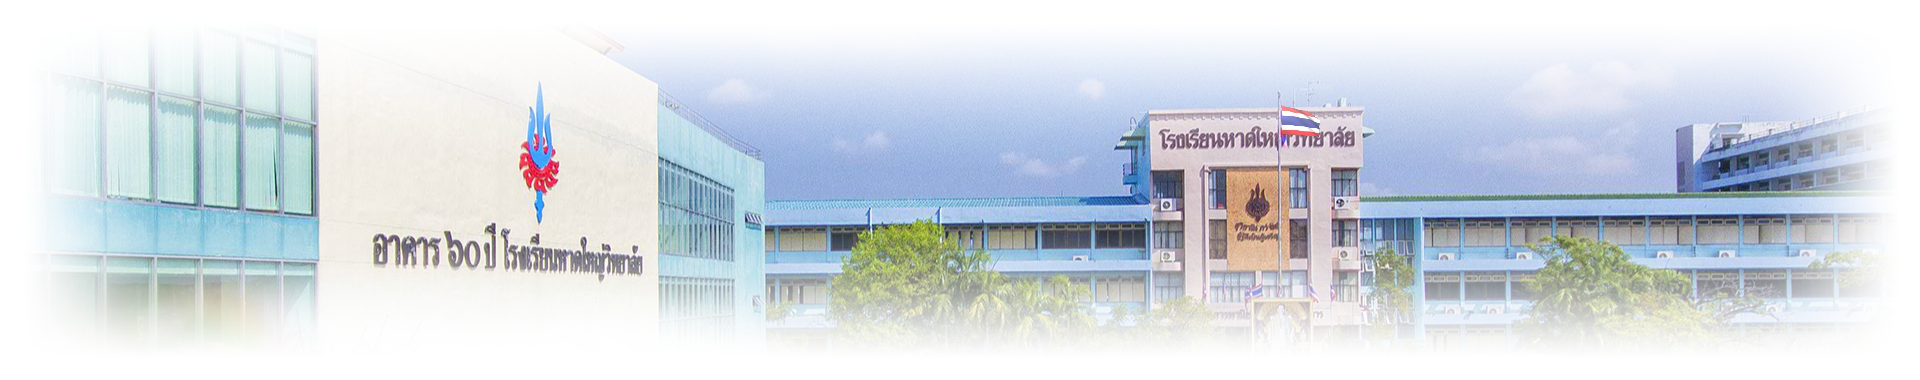
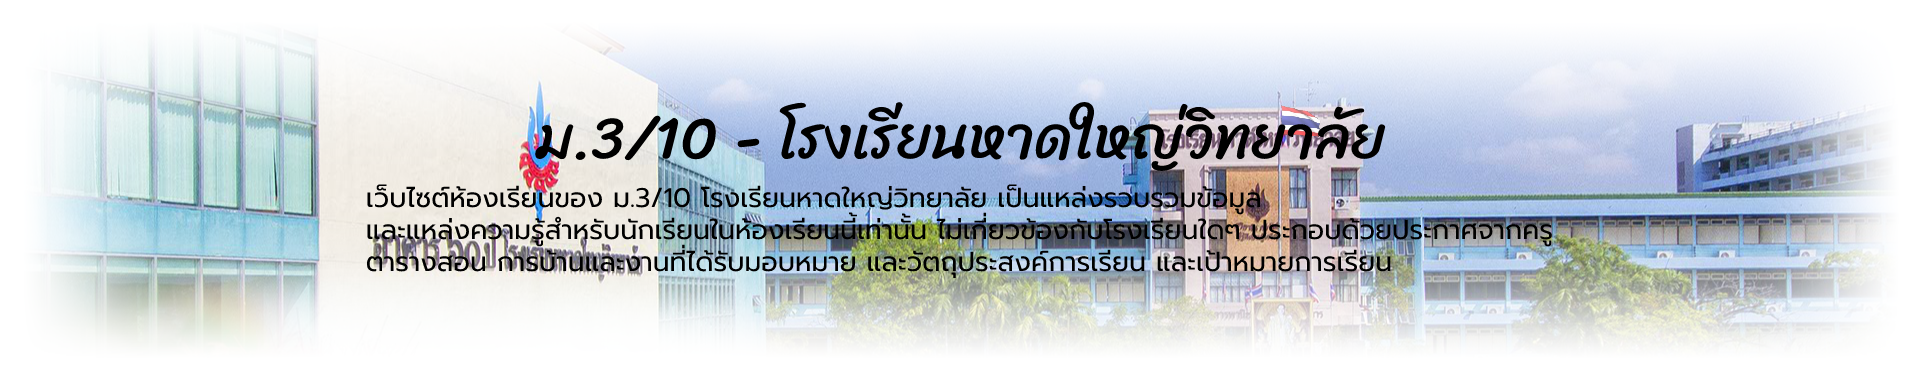
Update img

Changed region(s): [[0.1875, 0.5789, 0.8125, 0.7237], [0.2812, 0.2605, 0.7188, 0.4632], [0.1875, 0.4921, 0.6562, 0.55]]

diff --git a/public/index.html b/public/index.html
@@ -62,18 +62,7 @@
         <iframe scrolling="no" id="DataIframe" style="border: none;display: none;" width="100%" height="60px"
             src="https://script.google.com/macros/s/AKfycbwlpbeUeVy0tofCzy2J4J6TMCMiDaaiaLNITUEmU2XzCjz2mq_v_YycCwFfH7zTodHtug/exec"></iframe>
     </div>
-    <div id="CardHatyaiwit" class="px-4 py-5 my-5 text-center">
-        <h1 class="display-5 fw-bold text-body-emphasis animate__animated animate__tada">
-            <thai>ม.3/10 -
-                โรงเรียนหาดใหญ่วิทยาลัย</thai>
-        </h1>
-        <div class="col-lg-6 mx-auto">
-            <p class="lead mb-4">เว็บไซต์ห้องเรียนของ ม.3/10 โรงเรียนหาดใหญ่วิทยาลัย
-                เป็นแหล่งรวบรวมข้อมูลและแหล่งความรู้สำหรับนักเรียนในห้องเรียนนี้เท่านั้น ไม่เกี่ยวข้องกับโรงเรียนใดๆ
-                ประกอบด้วยประกาศจากครู ตารางสอน การบ้านและงานที่ได้รับมอบหมาย และวัตถุประสงค์การเรียน
-                และเป้าหมายการเรียน</p>
-        </div>
-    </div>
+    <img src="/cdn/assets/Hero-headder.png" class="d-block w-100" alt="...">
     <div class="container px-4 py-5" id="hanging-icons">
         <h2 class="pb-2 border-bottom">
             <high>ภาพกิจกรรมภายในห้อง - Activities ✨</high>
